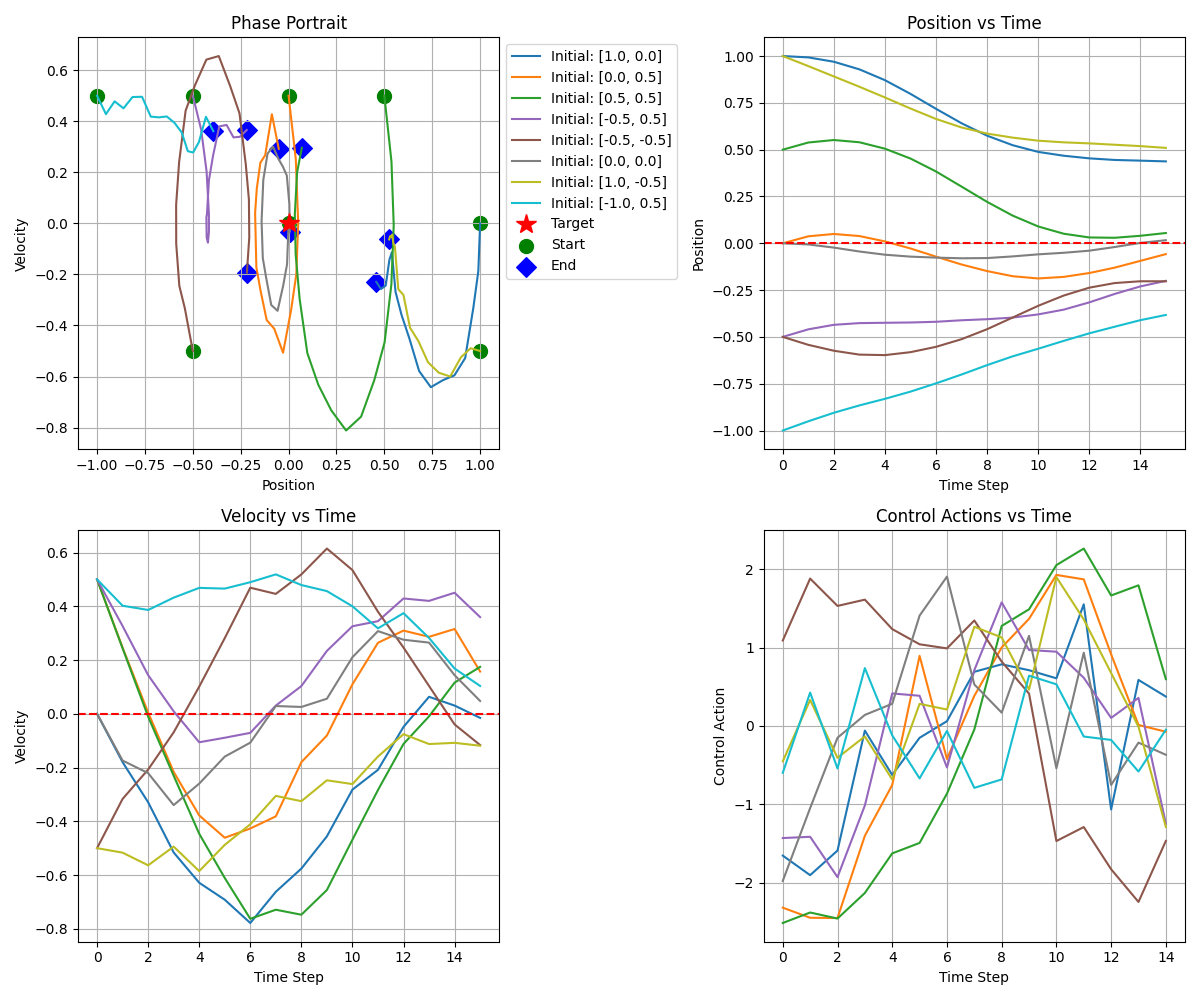
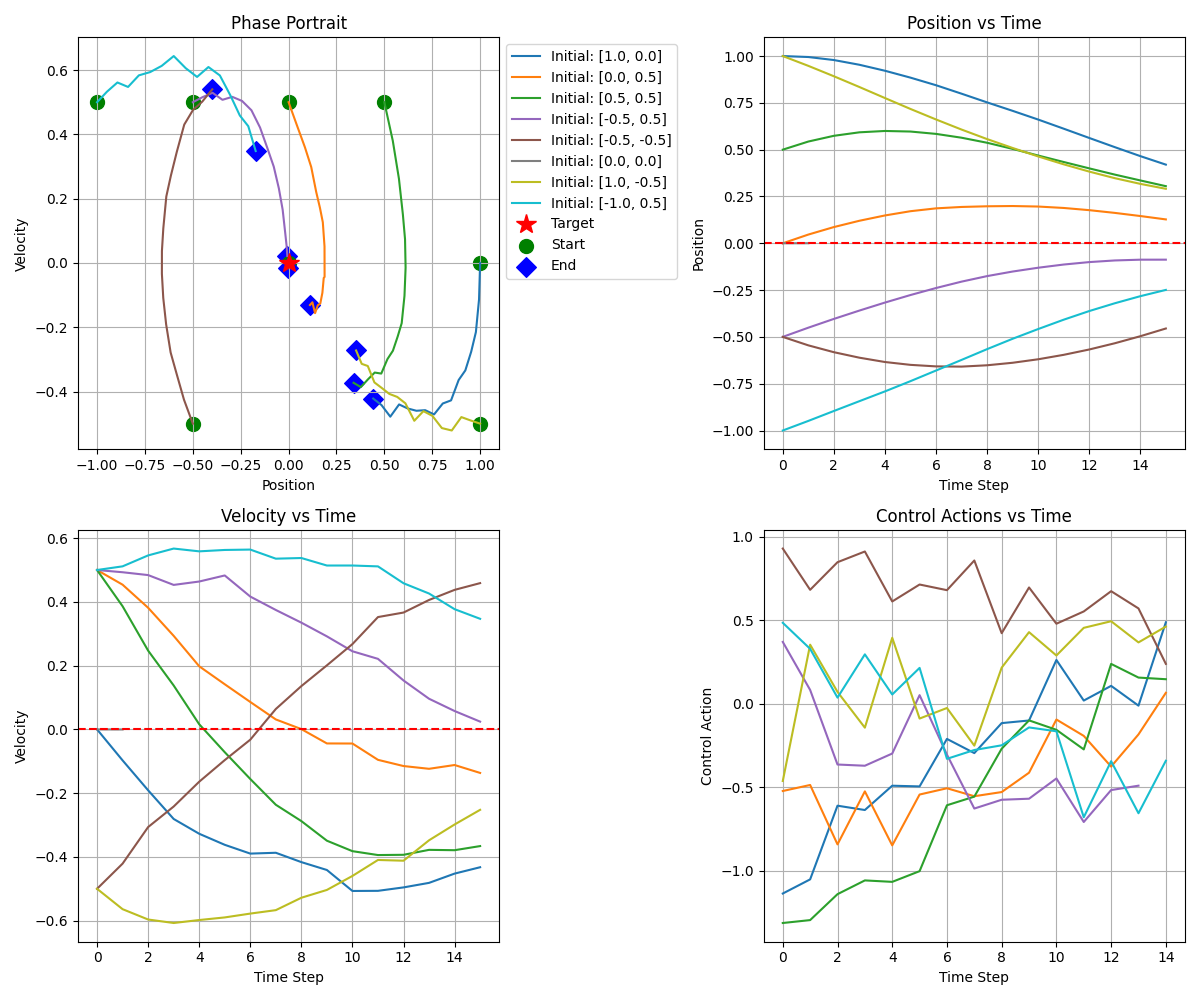
update control limits, improve curriculum adjustments

diff --git a/src/environments/double_integrator_env.py b/src/environments/double_integrator_env.py
@@ -7,6 +7,9 @@ class DoubleIntegratorEnv:
         self.dt = dt
         self.max_steps = max_steps
         self.control_limit = control_limit
+        # Add domain size parameters for easier modification
+        self.position_range = 0.5  # Changed from 1.0 to 0.5
+        self.velocity_range = 0.25  # Changed from 0.5 to 0.25
         self.state = None
         self.step_count = 0
         self.reset()
@@ -16,13 +19,14 @@ class DoubleIntegratorEnv:
         if initial_state is None:
             # Use a grid of initial states rather than random
             # This helps ensure better coverage of the state space
-            grid_points = np.linspace(-1.0, 1.0, 5) * difficulty
-            pos_idx = np.random.randint(0, len(grid_points))
+            # Changed from -1.0, 1.0 to -0.5, 0.5
+            grid_points = np.linspace(-self.position_range, self.position_range, 5) * difficulty
+            pos_idx = np.random.randint(0, len(grid_points))   
             vel_idx = np.random.randint(0, len(grid_points))
             
             self.state = np.array([
                 grid_points[pos_idx],
-                grid_points[vel_idx] * 0.5  # Velocity range is half of position
+                grid_points[vel_idx] * self.velocity_range  # Velocity range is now parameterized
             ])
         else:
             self.state = np.array(initial_state)
@@ -65,27 +69,63 @@ class DoubleIntegratorEnv:
         self.state = np.array([new_position, new_velocity])
         self.step_count += 1
         
-        # Store current error before update
-        current_error = np.sqrt(position**2 + velocity**2)
+        # Store previous error for progress reward
+        old_error = np.sqrt(position**2 + velocity**2)
         
         # Calculate new error
         new_error = np.sqrt(new_position**2 + new_velocity**2)
         
-        # Modified reward components
-        base_reward = -(new_position**2 + new_velocity**2) * 0.5  # Increase base penalty
-        improvement_reward = max(0, current_error - new_error) * 15.0  # Stronger improvement incentive
-        completion_bonus = 50.0 if new_error < 0.05 else 0.0  # Much larger bonus for accuracy
+        # IMPROVED REWARD FUNCTION
+        # Stronger progress reward with quadratic scaling (rewards more for larger improvements)
+        progress_reward = 10.0 * (old_error - new_error) * (1 + 5.0 * old_error)
         
-        # Additional penalty for being far from target
-        distance_penalty = -new_error * 0.3
+        # Earlier proximity bonus that scales smoothly
+        proximity_bonus = 10.0 * np.exp(-20.0 * new_error)  # Exponential scaling
         
-        # Combined reward with distance penalty
-        reward = base_reward + improvement_reward + completion_bonus + distance_penalty
+        # Decrease distance penalty slightly to avoid overly conservative behavior
+        distance_penalty = -1.0 * new_error
         
-        # Check if done
-        done = self.step_count >= self.max_steps
+        # Control penalty remains the same
+        control_penalty = -0.1 * (action**2)
+        
+        # Combined reward
+        reward = progress_reward + proximity_bonus + distance_penalty + control_penalty
+        
+        # Early termination when goal reached
+        goal_reached = new_error < 0.03
+        done = (self.step_count >= self.max_steps) or goal_reached
+        
+        # Terminal state reward
+        if goal_reached:
+            reward += 50.0  # Bigger fixed bonus for reaching goal
         
         # State error (for evaluation)
-        state_error = np.sqrt(new_position**2 + new_velocity**2)
+        state_error = new_error
         
-        return self.state.copy(), reward, done, {"state_error": state_error}
+        return self.state.copy(), reward, done, {"state_error": state_error}        
+    
+    
+    
+            # # Calculate error
+        # new_error = np.sqrt(new_position**2 + new_velocity**2)
+        
+        # # SIMPLIFIED REWARD FUNCTION
+        # # Strong negative quadratic penalty based on distance from target
+        # distance_penalty = -10.0 * (new_position**2 + new_velocity**2)
+        
+        # # Large bonus for being close to target
+        # completion_bonus = 50.0 if new_error < 0.05 else 0.0
+        
+        # # Smaller control penalty to discourage excessive control
+        # control_penalty = -0.1 * (action**2)
+        
+        # # Combined reward
+        # reward = distance_penalty + completion_bonus + control_penalty
+        
+        # # Check if done
+        # done = self.step_count >= self.max_steps
+        
+        # # State error (for evaluation)
+        # state_error = np.sqrt(new_position**2 + new_velocity**2)
+        
+        # return self.state.copy(), reward, done, {"state_error": state_error}

diff --git a/src/training/trainer.py b/src/training/trainer.py
@@ -72,7 +72,7 @@ class Trainer:
         print("Starting training...")
         
         # Parameters for batch collection - INCREASE THESE
-        batch_size = 128  # Increase from 64 to 128
+        batch_size = 1024  # Increase from 64 to 128
         max_buffer_size = 4096  # Increase from 1024 to 4096
         
         # Storage for batch data
@@ -85,23 +85,37 @@ class Trainer:
         # Initialize losses dict to store latest losses
         losses = {'policy_loss': 0.0, 'value_loss': 0.0, 'entropy': 0.0}
         
+        # Initialize metrics dictionaries
+        metrics = {
+            'rewards': [],
+            'state_errors': [],
+            'episode_lengths': []
+        }
+        
+        # Add a metrics recording interval
+        metrics_interval = 10  # Only record every 10th episode
+        
+        # Track recent average performance for curriculum advancement
+        success_threshold = 0.03  # More lenient success threshold
+        window_size = 10
+        recent_errors = deque(maxlen=window_size)
+        current_difficulty = 0.005  # Start easier
+        
         for episode in range(1, self.num_episodes + 1):
-            # Super aggressive curriculum - start almost at target
-            if episode < self.num_episodes * 0.2:
-                difficulty = 0.001  # Extremely tiny initial states (practically at target)
-            elif episode < self.num_episodes * 0.3:
-                difficulty = 0.01   # Still very close
-            elif episode < self.num_episodes * 0.4:
-                difficulty = 0.05   # Very close
-            elif episode < self.num_episodes * 0.5:
-                difficulty = 0.1    # Slightly farther
-            elif episode < self.num_episodes * 0.7:
-                difficulty = 0.3    # Medium distance
-            else:
-                difficulty = 0.6    # Larger but still not full range
+            # Smooth curriculum based on recent performance
+            if len(recent_errors) == window_size:
+                success_rate = sum(1 for err in recent_errors if err < success_threshold) / window_size
+                
+                # Gentler difficulty increases
+                if success_rate > 0.7 and current_difficulty < 1.0:  # Lower success threshold
+                    current_difficulty = min(current_difficulty * 1.1, 1.0)  # Only 10% increase
+                
+                # Add difficulty decrease mechanism
+                elif success_rate < 0.3 and current_difficulty > 0.005:
+                    current_difficulty = max(current_difficulty * 0.9, 0.005)  # Decrease by 10%
             
             # Reset environment with current difficulty
-            state = self.env.reset(difficulty=difficulty)
+            state = self.env.reset(difficulty=current_difficulty)
             
             # Print initial state for debug
             if episode % self.logging_interval == 0:
@@ -144,6 +158,15 @@ class Trainer:
             self.state_errors.append(trajectory['final_state_error'])
             self.episode_lengths.append(trajectory['episode_length'])
             
+            # Store recent errors for curriculum adjustment
+            recent_errors.append(trajectory['final_state_error'])
+            
+            # Only store metrics every metrics_interval episodes
+            if episode % metrics_interval == 0:
+                metrics['rewards'].append(trajectory['total_reward'])
+                metrics['state_errors'].append(trajectory['final_state_error'])
+                metrics['episode_lengths'].append(trajectory['episode_length'])
+            
             # Logging
             if episode % self.logging_interval == 0:
                 avg_reward = np.mean(self.rewards_history[-self.logging_interval:])
@@ -164,8 +187,4 @@ class Trainer:
                 print()
         
         print("Training complete!")
-        return {
-            'rewards': self.rewards_history,
-            'state_errors': self.state_errors,
-            'episode_lengths': self.episode_lengths
-        }
+        return metrics

diff --git a/src/main.py b/src/main.py
@@ -15,16 +15,18 @@ def main():
     np.random.seed(42)
     
     # Environment parameters
-    env = DoubleIntegratorEnv(dt=0.1, max_steps=15, control_limit=3.0)  # Changed from 100 to 15
+    control_limit = 2.0
+    env = DoubleIntegratorEnv(dt=0.1, max_steps=15, control_limit=control_limit)   
     
-    # Model architecture - improve parameters
+    # Model architecture - pass control limit
     model = TransformerControlNetwork(
         state_dim=2,
         action_dim=1,
         hidden_dim=64,       # Increase from 32 back to 64
         num_heads=4,         # Increase from 2 back to 4
         num_layers=2,        # Increase from 1 back to 2
-        max_seq_length=15
+        max_seq_length=15,
+        control_limit=control_limit  # Match the environment's control limit
     )
     
     # Learning parameters
@@ -39,37 +41,41 @@ def main():
     trainer = Trainer(
         env=env,
         agent=agent,
-        num_episodes=5000,    # Increase from 2000 to 5000
+        num_episodes=20000,    # Increase from 2000 to 5000
         logging_interval=100  # Change from 20 to 100 to reduce output volume
     )
     
     # Train the agent
     metrics = trainer.train()
     
-    # Plot training progress
+    # Create x-axis values that match the recorded intervals
+    metrics_interval = 10  # Same value as used in the Trainer class
+    episodes = [i * metrics_interval for i in range(len(metrics['rewards']))]
+    
+    # Plot training progress with fewer points
     plt.figure(figsize=(15, 5))
     
     plt.subplot(1, 3, 1)
-    plt.plot(metrics['rewards'])
+    plt.plot(episodes, metrics['rewards'])
     plt.title('Episode Rewards')
     plt.xlabel('Episode')
     plt.ylabel('Reward')
     
     plt.subplot(1, 3, 2)
-    plt.plot(metrics['state_errors'])
+    plt.plot(episodes, metrics['state_errors'])
     plt.title('Final State Error')
     plt.xlabel('Episode')
     plt.ylabel('Error')
     
     plt.subplot(1, 3, 3)
-    plt.plot(metrics['episode_lengths'])
+    plt.plot(episodes, metrics['episode_lengths'])
     plt.title('Episode Length')
     plt.xlabel('Episode')
     plt.ylabel('Steps')
     
     plt.tight_layout()
     plt.savefig('training_progress.png')
-    plt.show(block=False)
+    plt.close()  # Close the figure to free memory
     
     # Visualize a trajectory with the trained policy
     visualize_trajectory(env, agent)
@@ -127,7 +133,8 @@ def visualize_trajectory(env, agent, initial_state=None):
     
     plt.tight_layout()
     plt.savefig('trajectory.png')
-    plt.show()
+    plt.close()  # Close the figure to free memory
+
 
 if __name__ == "__main__":
     main()

diff --git a/src/models/transformer.py b/src/models/transformer.py
@@ -45,6 +45,7 @@ class TransformerControlNetwork(nn.Module):
         num_heads=4,           # Number of attention heads
         num_layers=2,          # Number of transformer layers
         max_seq_length=20,     # Max length of state history
+        control_limit=1.0,     # Add this parameter
     ):
         super().__init__()
         
@@ -52,6 +53,7 @@ class TransformerControlNetwork(nn.Module):
         self.action_dim = action_dim
         self.hidden_dim = hidden_dim
         self.max_seq_length = max_seq_length
+        self.control_limit = control_limit  # Save the control limit
         
         # Main components of the transformer model:
 
@@ -79,8 +81,8 @@ class TransformerControlNetwork(nn.Module):
             nn.ReLU(),
             nn.Linear(hidden_dim, action_dim),
             nn.Tanh(),  # Outputs [-1, 1]
-            # Scale to control limit range - use full range
-            Lambda(lambda x: x * 3.0)  # Scale to [-3, 3]
+            # Match scaling to environment's control limit
+            Lambda(lambda x: x * self.control_limit)  # Scale to match env control limit
         )
 
         # 5. Value head (critic): estimates state value
@@ -91,7 +93,7 @@ class TransformerControlNetwork(nn.Module):
         )
         
         # Action log standard deviation (learnable)
-        self.log_std = nn.Parameter(torch.ones(action_dim) * -1.0)  # Start with lower std for more stable initial behavior
+        self.log_std = nn.Parameter(torch.ones(action_dim) * 0.0)  # Start with higher log_std for more exploration
     
     def forward(self, states):
         """

diff --git a/src/utils/visualization.py b/src/utils/visualization.py
@@ -122,7 +122,7 @@ def visualize_multiple_trajectories(env, agent, initial_states=None):
     plt.tight_layout()
     # Save the figure
     plt.savefig('multiple_trajectories.png')
-    plt.show()
+    plt.close()  # Close the figure to free memory
 
 def simulate_trajectory(env, agent, initial_state):
     """Simulate a trajectory from given initial state"""
